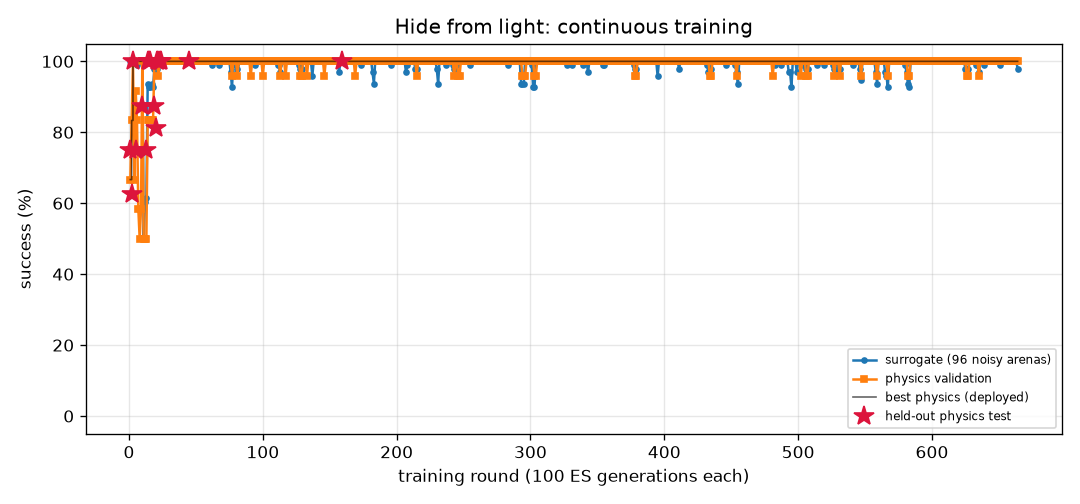
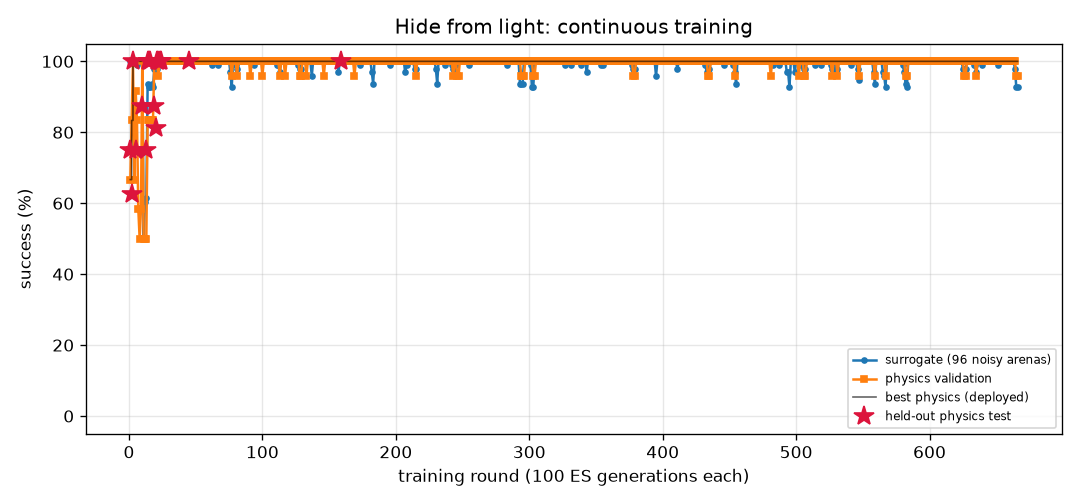
FlyLab: daily snapshot 2026-11-16
Daily entry in projects/09_flylab/training/daily/2026-11.md, plus 5 uncommitted training output file(s).

diff --git a/projects/09_flylab/training/light_avoid/REPORT.md b/projects/09_flylab/training/light_avoid/REPORT.md
@@ -1,14 +1,14 @@
 # Hide from light (`light_avoid`) — training report
 
-*Auto-generated by `train_brains.py`, last updated 2026-11-15T21:21:51.*
+*Auto-generated by `train_brains.py`, last updated 2026-11-16T01:24:01.*
 
 ![curve](curve.png)
 
 | | |
 |---|---|
-| rounds | 664 |
-| ES generations | 66400 |
-| physics runs | 16208 |
+| rounds | 666 |
+| ES generations | 66600 |
+| physics runs | 16256 |
 | status | **optimal** |
 | best brain | round 159: physics validation **100%** on 24 arenas, surrogate 100% |
 | held-out physics test | **100%** on 32 unseen arenas (95% CI 89%-100%) (errors: [14.4, 56.1, 58.0, 57.9, 57.5, 14.0, 14.4, 56.6, 56.8, 13.3, 14.1, 56.6, 57.6, 13.1, 57.3, 55.9, 57.2, 55.0, 55.2, 53.9, 55.2, 12.4, 53.8, 53.7, 14.1, 13.7, 55.0, 57.8, 56.2, 13.1, 52.8, 56.5]) |
@@ -17,8 +17,6 @@ Physics error per arena: mm gained away from source (> 6 without first approachi
 
 | round | level | gens | sigma | surrogate | physics val | val errors | test | note |
 |---:|---:|---:|---:|---:|---:|---|---:|---|
-| 625 | 3 | 62500 | 0.024 | 98% | 100% | [41.9, 42.4, 42.9, 43.5, 38.0, 43.2, 43.6, 14.5, 12.9, 13.5, 8.5, 37.9, 14.4, 37.9, 43.3, 42.8, 14.2, 39.2, 41.8, 14.4, 40.9, 9.0, 44.4, 36.5] |  |  |
-| 626 | 3 | 62600 | 0.025 | 98% | 96% | [49.1, 52.7, 52.4, 49.9, 52.5, 49.1, 51.0, 14.5, 13.0, 13.4, 10.2, 52.4, 14.4, 7.9, 52.6, 48.9, 14.2, 52.9, 53.1, 14.4, 47.4, 11.3, 50.5, 51.8] |  |  |
 | 627 | 3 | 62700 | 0.025 | 98% | 96% | [38.8, 40.4, 39.9, 40.1, 43.6, 38.2, 37.8, 14.5, 13.0, 13.4, 10.2, 43.7, 14.4, 8.0, 40.1, 39.9, 14.2, 43.4, 40.6, 14.4, 39.2, 11.3, 38.3, 43.8] |  | restart from best |
 | 628 | 3 | 62800 | 0.024 | 100% | 100% | [39.2, 39.7, 39.6, 40.2, 42.4, 39.2, 37.0, 14.5, 38.3, 13.3, 43.0, 42.6, 14.3, 42.6, 39.8, 39.4, 14.2, 42.5, 39.8, 14.4, 40.9, 42.9, 37.1, 42.3] |  |  |
 | 629 | 3 | 62900 | 0.024 | 100% | 100% | [43.8, 44.8, 44.2, 45.1, 48.0, 45.2, 42.3, 14.5, 12.7, 13.4, 43.4, 48.0, 14.4, 44.8, 44.9, 45.4, 14.2, 47.8, 44.3, 14.4, 44.4, 44.8, 42.5, 47.8] |  |  |
@@ -57,3 +55,5 @@ Physics error per arena: mm gained away from source (> 6 without first approachi
 | 662 | 3 | 66200 | 0.024 | 100% | 100% | [44.7, 45.4, 45.6, 44.7, 41.7, 44.6, 45.8, 14.5, 42.5, 13.4, 44.8, 41.9, 14.4, 44.9, 45.6, 44.5, 14.2, 42.3, 45.2, 14.4, 43.3, 44.6, 45.7, 40.8] |  |  |
 | 663 | 3 | 66300 | 0.024 | 100% | 100% | [48.9, 50.6, 50.5, 48.7, 45.5, 48.6, 50.9, 14.5, 41.8, 13.5, 46.0, 44.8, 14.4, 47.5, 50.6, 47.7, 14.2, 47.3, 49.9, 14.4, 42.4, 48.0, 50.5, 43.8] |  | restart from best |
 | 664 | 3 | 66400 | 0.024 | 98% | 100% | [37.7, 38.5, 38.0, 38.3, 41.0, 38.4, 35.4, 14.5, 39.6, 13.2, 40.7, 41.2, 14.4, 41.1, 38.0, 6.3, 14.2, 39.7, 37.8, 14.4, 8.2, 41.1, 34.6, 40.4] |  |  |
+| 665 | 3 | 66500 | 0.025 | 93% | 96% | [5.9, 46.3, 45.7, 7.4, 48.6, 7.9, 43.8, 14.5, 47.8, 13.5, 48.7, 48.8, 14.4, 49.3, 45.9, 9.1, 14.2, 48.9, 46.1, 14.4, 8.8, 48.5, 44.0, 48.8] |  |  |
+| 666 | 3 | 66600 | 0.028 | 93% | 96% | [6.2, 52.0, 51.9, 7.3, 51.0, 4.4, 50.4, 14.5, 36.5, 13.5, 49.6, 50.7, 14.4, 49.2, 52.0, 9.0, 14.2, 51.4, 52.5, 14.4, 8.7, 49.1, 49.9, 50.1] |  |  |

diff --git a/projects/09_flylab/training/TRAINING.md b/projects/09_flylab/training/TRAINING.md
@@ -1,6 +1,6 @@
 # FlyLab brains — continuous training log
 
-*Auto-generated by `train_brains.py`, last updated 2026-11-16T01:11:49.*
+*Auto-generated by `train_brains.py`, last updated 2026-11-16T01:24:01.*
 
 Every skill has its own brain and its own training process: surrogate ES rounds, physics validation in MuJoCo, keep-the-best selection, and a held-out physics test that is never used for selection. See each skill's report for its full round-by-round history. Mastery is progressive: passing a level (100% physics validation, >=95% surrogate) doubles the validation and test arena sets; a brain is **optimal** once it holds up at level 3 (>=95% of 24 validation arenas) AND scores >=90% on the 32 held-out test arenas. Test columns show 95% Wilson confidence intervals.
 
@@ -12,4 +12,4 @@ Every skill has its own brain and its own training process: surrogate ES rounds,
 | [Find food by smell](odor_seek/REPORT.md) | 250 | 25000 | 5494 | 100% | 100% of 24 | 100% of 32 (CI 89-100%) | **optimal** |
 | [Escape a bad smell](odor_avoid/REPORT.md) | 946 | 94600 | 20010 | 97% | 100% of 24 | 97% of 32 (CI 84-99%) | **optimal** |
 | [Walk toward light](light_seek/REPORT.md) | 509 | 50900 | 9096 | 100% | 100% of 24 | 100% of 32 (CI 89-100%) | **optimal** |
-| [Hide from light](light_avoid/REPORT.md) | 664 | 66400 | 16208 | 100% | 100% of 24 | 100% of 32 (CI 89-100%) | **optimal** |
+| [Hide from light](light_avoid/REPORT.md) | 666 | 66600 | 16256 | 100% | 100% of 24 | 100% of 32 (CI 89-100%) | **optimal** |

diff --git a/projects/09_flylab/training/daily/2026-11.md b/projects/09_flylab/training/daily/2026-11.md
@@ -121,3 +121,18 @@ Written by daily_commit.py once a day.
 
 - training supervisor: running
 - commits in the last 24 h: 4 (latest `7b436ef 22:59 FlyLab: continuous training progress`)
+
+## 2026-11-16 (Mon)
+
+| brain | state | level | physics val | test | round |
+|---|---|---|---|---|---|
+| walk_forward | optimal | 3 | 100% of 24 | 100% | 399 |
+| turn | optimal | 3 | 100% of 24 | 97% | 1079 |
+| goto | optimal | 3 | 100% of 24 | 100% | 308 |
+| odor_seek | optimal | 3 | 100% of 24 | 100% | 250 |
+| odor_avoid | optimal | 3 | 100% of 24 | 97% | 946 |
+| light_seek | optimal | 3 | 100% of 24 | 100% | 509 |
+| light_avoid | optimal | 3 | 100% of 24 | 100% | 666 |
+
+- training supervisor: running
+- commits in the last 24 h: 8 (latest `0bc8158 01:11 FlyLab: continuous training progress`)
